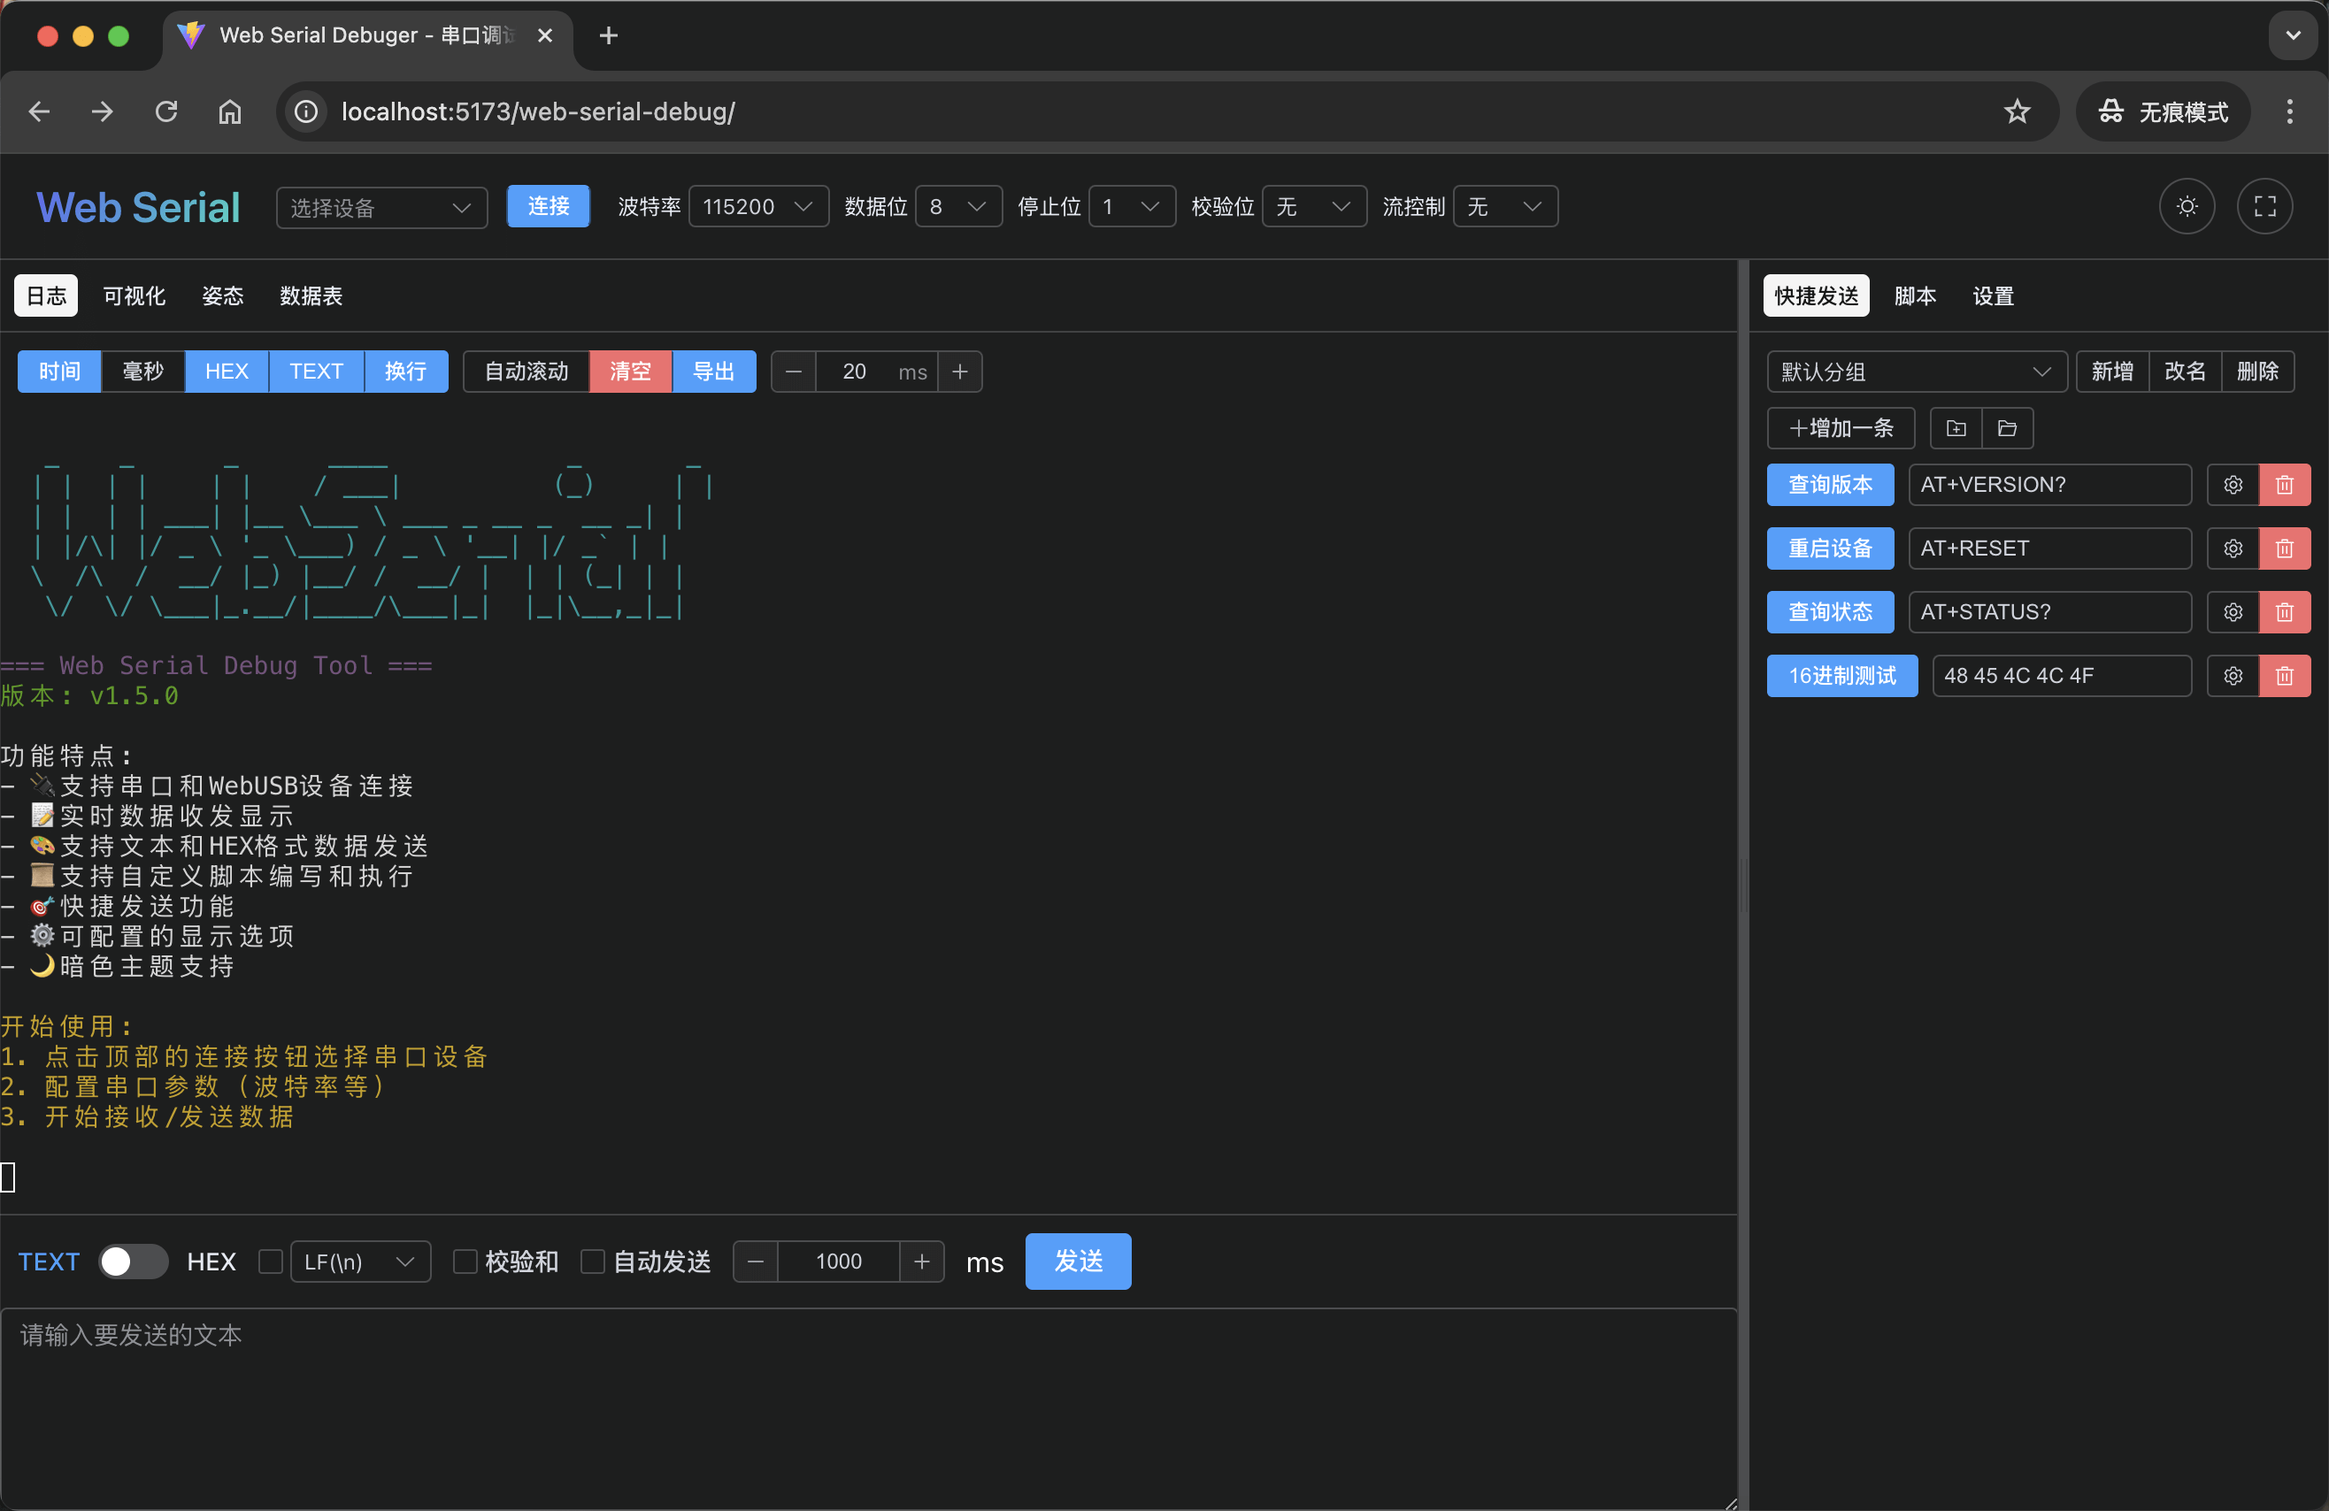
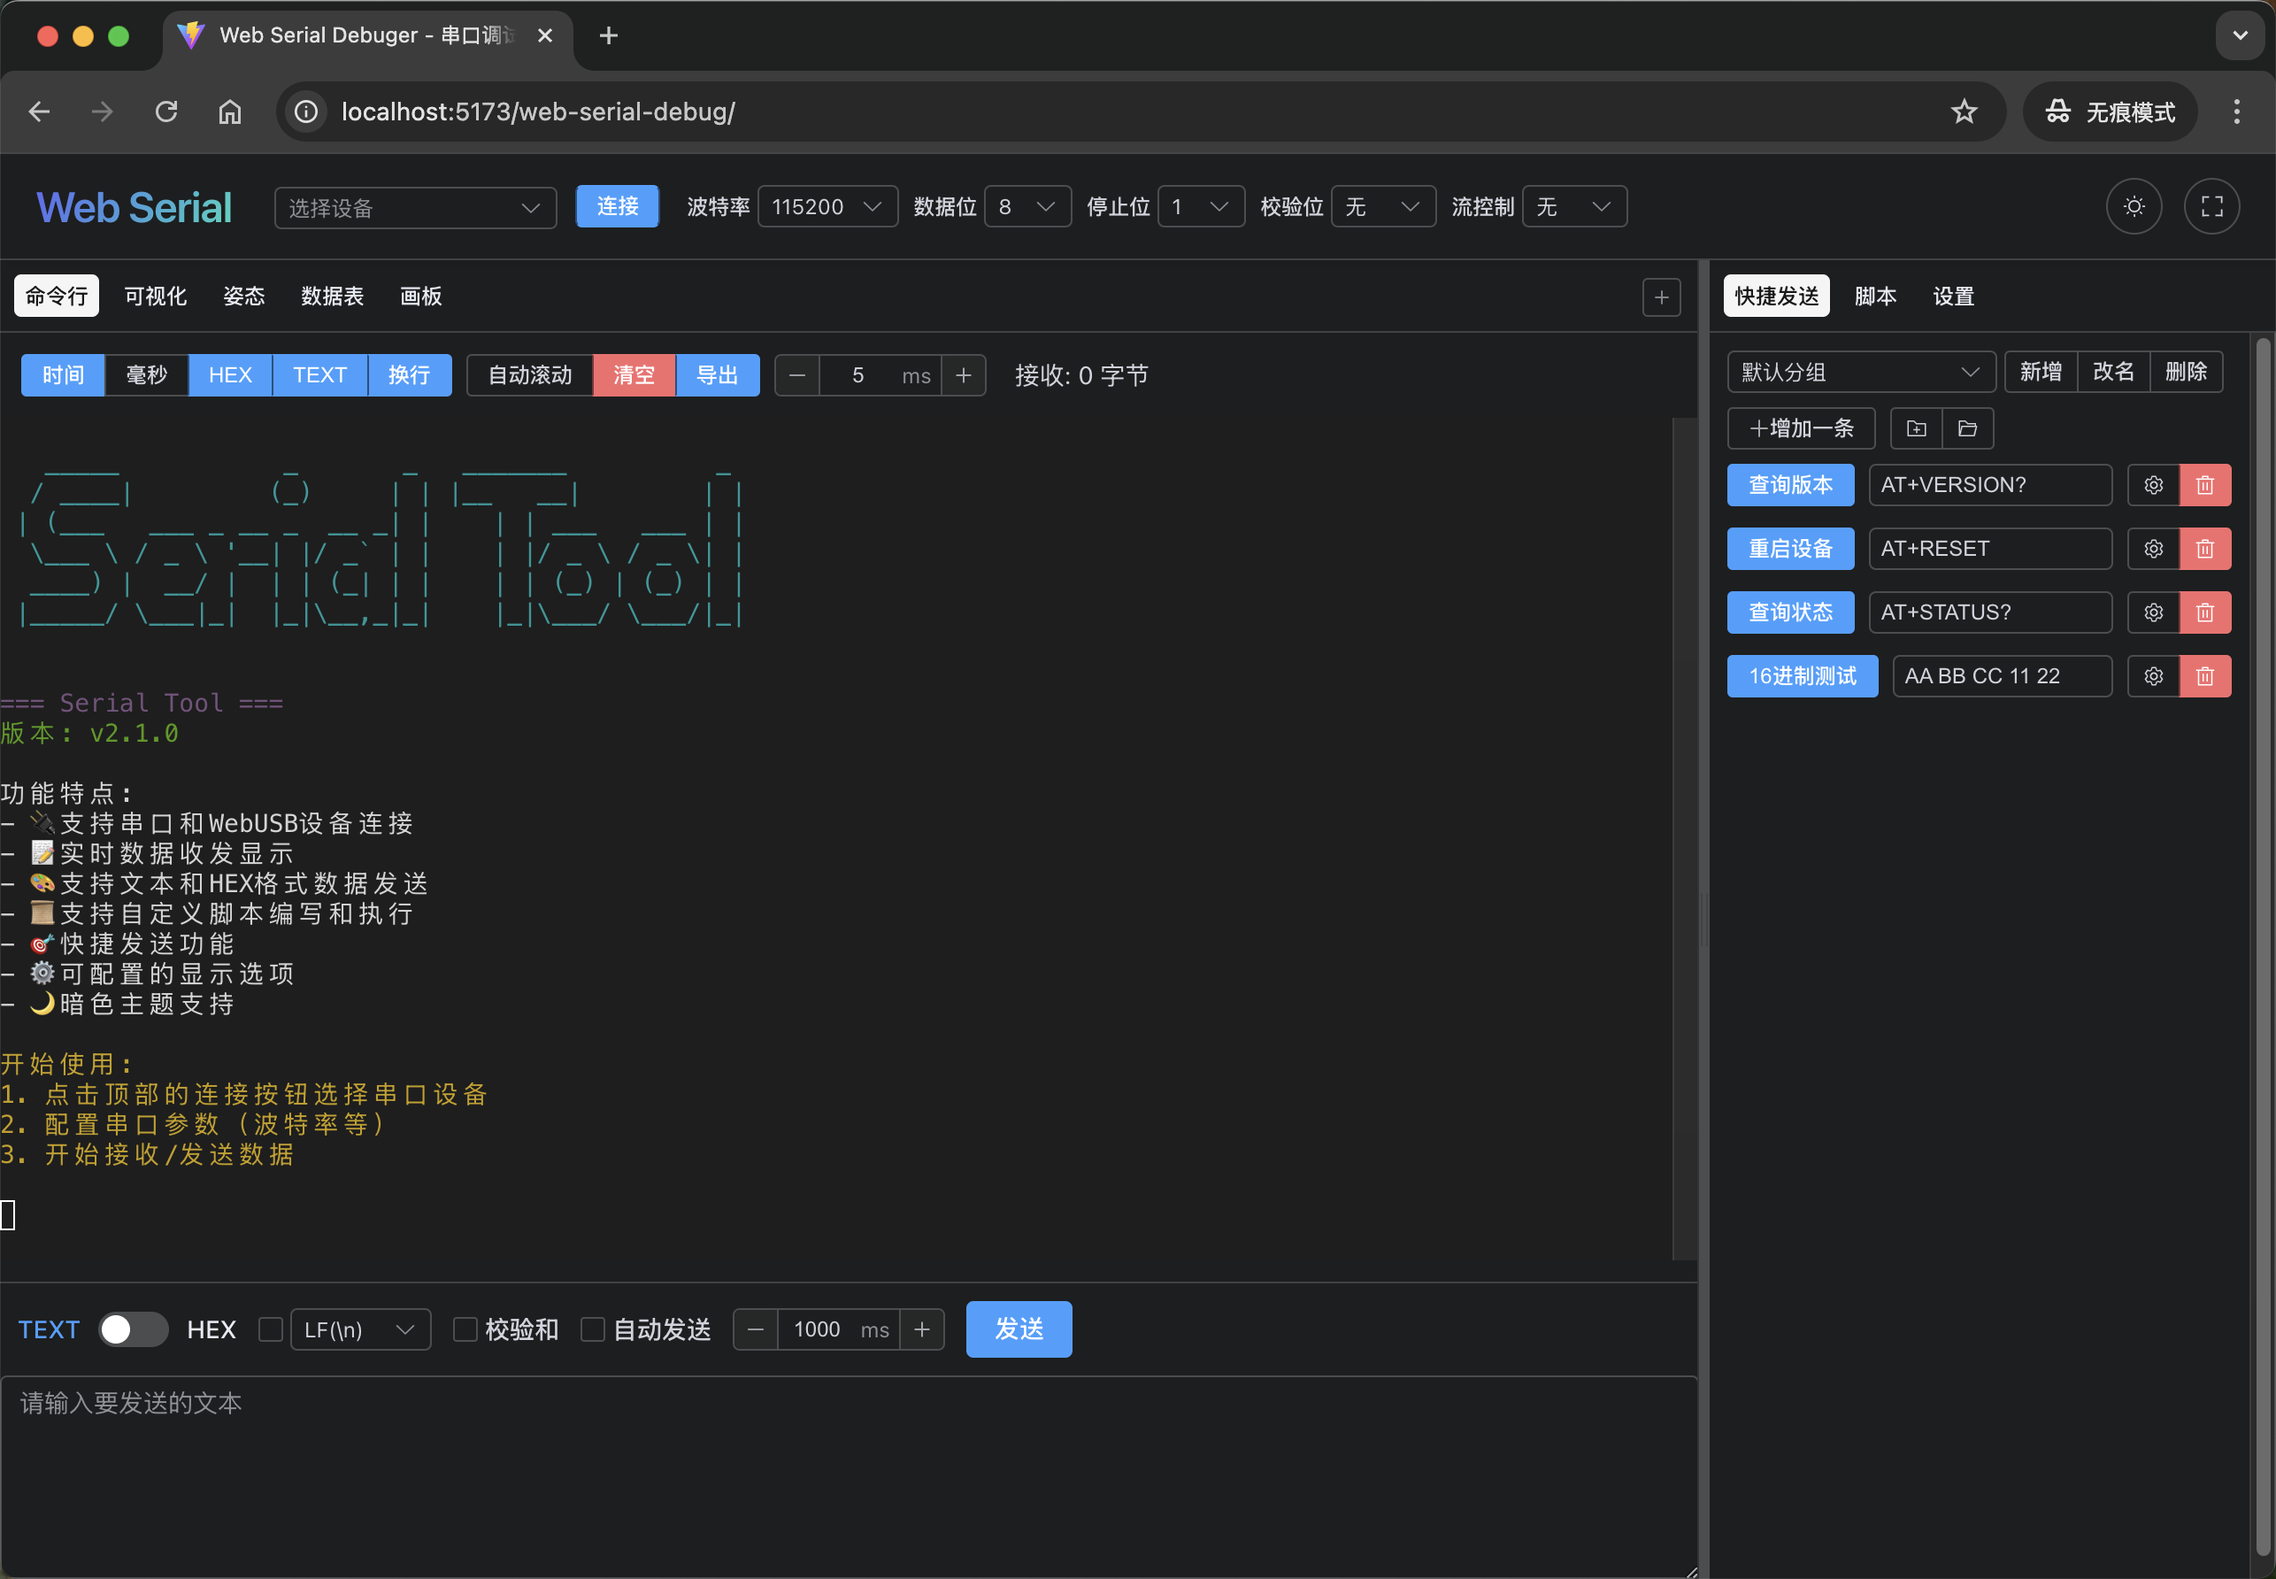
v2.1.2

diff --git a/src/components/SerialSend.vue b/src/components/SerialSend.vue
@@ -1,6 +1,7 @@
 <script setup lang="ts">
 import { SerialHelper } from '../utils/SerialHelper'
 import { ConfigManager } from '../utils/ConfigManager'
+import { ElMessage } from 'element-plus'
 
 import { EventCenter, EventNames } from '../utils/EventCenter'
 
@@ -24,7 +25,7 @@ const sendData = () => {
     if (sendConfig.value.addChecksum) {
       data = serialHelper.appendChecksum(data)
     }
-
+    // console.log('发送数据:', data, serialHelper.uint8ArrayToString(data))
     eventCenter.emit(EventNames.SERIAL_SEND, data)
     
     // 添加到历史记录
@@ -36,13 +37,24 @@ const sendData = () => {
     }
   } catch (error) {
     console.error('发送数据时出错:', error)
+    ElMessage.error('发送数据时出错' + error)
     eventCenter.emit(EventNames.SERIAL_ERROR, { message: error instanceof Error ? error.message : '发送数据时出错' })
+    return false
   }
+  return true
 }
 
 const toggleAutoSend = () => {
   if (sendConfig.value.autoSend) {
-    autoSendTimer = window.setInterval(sendData, sendConfig.value.autoSendInterval)
+    autoSendTimer = window.setInterval(() => {
+      if (!sendData()) {
+        if (autoSendTimer) {
+          clearInterval(autoSendTimer)
+          autoSendTimer = null
+        }
+        sendConfig.value.autoSend = false
+      }
+    }, sendConfig.value.autoSendInterval)
   } else if (autoSendTimer) {
     clearInterval(autoSendTimer)
     autoSendTimer = null
@@ -112,7 +124,7 @@ const handleKeyDown = (e: KeyboardEvent) => {
       <el-switch v-model="sendConfig.isHexSend" active-text="HEX" inactive-text="TEXT" class="me-2" />
       <div class="me-2" style="display: inline-block;">
         <el-checkbox v-model="sendConfig.addCRLF" label="" class="" style="vertical-align: middle;" />
-        <el-select v-model="sendConfig.addCRLFType" size="small" style="width: 80px;">
+        <el-select v-model="sendConfig.addCRLFType" size="small" style="width: 80px;" @change="sendConfig.addCRLF = true">
           <el-option :value="'\r\n'" label="CRLF(\r\n)" />
           <el-option :value="'\r'" label="CR(\r)" />
           <el-option :value="'\n'" label="LF(\n)" />
@@ -121,7 +133,7 @@ const handleKeyDown = (e: KeyboardEvent) => {
       </div>
       <el-checkbox v-model="sendConfig.addChecksum" label="校验和" class="me-2" />
       <el-checkbox v-model="sendConfig.autoSend" @change="toggleAutoSend" label="自动发送" class="me-2" />
-      <el-input-number v-model="sendConfig.autoSendInterval" :min="100" :max="10000" :step="100" @change="handleIntervalChange" size="small" class="me-2" title="自动发送时间间隔">
+      <el-input-number v-model="sendConfig.autoSendInterval" :step="100" @change="handleIntervalChange" size="small" class="me-2" title="自动发送时间间隔">
         <template #suffix>
           <span>ms</span>
         </template>
@@ -133,7 +145,7 @@ const handleKeyDown = (e: KeyboardEvent) => {
         v-model="sendConfig.content"
         type="textarea"
         :rows="5"
-        :placeholder="sendConfig.isHexSend ? '请输入HEX格式数据，如：49 54 4C 44 47' : '请输入要发送的文本'"
+        :placeholder="sendConfig.isHexSend ? '请输入HEX格式数据，如：AA BB CC 11 22' : '请输入要发送的文本'"
         @keydown="handleKeyDown"
       />
     </div>

diff --git a/src/utils/TimerManager.ts b/src/utils/TimerManager.ts
@@ -1,0 +1,90 @@
+
+export class TimerManager {
+  private static instance: TimerManager
+  private timers: Map<string, {
+    callback: () => void,
+    interval: number,
+    lastTime: number,
+    requestId: number | null,
+    isRunning: boolean
+  }>
+
+  private constructor() {
+    this.timers = new Map()
+  }
+
+  public static getInstance(): TimerManager {
+    if (!TimerManager.instance) {
+      TimerManager.instance = new TimerManager()
+    }
+    return TimerManager.instance
+  }
+
+  private animationFrame(timerId: string) {
+    const timer = this.timers.get(timerId)
+    if (!timer || !timer.isRunning) return
+
+    const currentTime = performance.now()
+    const elapsed = currentTime - timer.lastTime
+
+    if (elapsed >= timer.interval) {
+      timer.callback()
+      timer.lastTime = currentTime - (elapsed % timer.interval)
+    }
+
+    timer.requestId = requestAnimationFrame(() => this.animationFrame(timerId))
+  }
+
+  public startTimer(timerId: string, callback: () => void, interval: number) {
+    if (this.timers.has(timerId)) {
+      this.stopTimer(timerId)
+    }
+
+    this.timers.set(timerId, {
+      callback,
+      interval,
+      lastTime: performance.now(),
+      requestId: null,
+      isRunning: true
+    })
+
+    const timer = this.timers.get(timerId)!
+    timer.requestId = requestAnimationFrame(() => this.animationFrame(timerId))
+  }
+
+  public stopTimer(timerId: string) {
+    const timer = this.timers.get(timerId)
+    if (timer) {
+      timer.isRunning = false
+      if (timer.requestId !== null) {
+        cancelAnimationFrame(timer.requestId)
+        timer.requestId = null
+      }
+    }
+  }
+
+  public resumeTimer(timerId: string) {
+    const timer = this.timers.get(timerId)
+    if (timer && !timer.isRunning) {
+      timer.isRunning = true
+      timer.lastTime = performance.now()
+      timer.requestId = requestAnimationFrame(() => this.animationFrame(timerId))
+    }
+  }
+
+  public clearTimer(timerId: string) {
+    this.stopTimer(timerId)
+    this.timers.delete(timerId)
+  }
+
+  public clearAllTimers() {
+    for (const timerId of this.timers.keys()) {
+      this.clearTimer(timerId)
+    }
+  }
+
+  public isTimerRunning(timerId: string): boolean {
+    const timer = this.timers.get(timerId)
+    return timer ? timer.isRunning : false
+  }
+}

diff --git a/src/components/device/mock_imu.ts b/src/components/device/mock_imu.ts
@@ -1,5 +1,6 @@
 import { ref } from 'vue'
 import { authorizedDevices, type Device } from './device'
+import { TimerManager } from '../../utils/TimerManager'
 
 export const getDeviceTitle = () => {
     return 'mock'
@@ -20,7 +21,8 @@ export const makeDevice = (port: any) => {
 authorizedDevices.value.push(makeDevice(null))
 
 const isSimulating = ref(false)
-let simulationTimer: number | null = null
+const timerManager = TimerManager.getInstance()
+const SIMULATION_TIMER_ID = 'mock_imu_simulation'
 
 const sleep = (ms: number) => new Promise(resolve => setTimeout(resolve, ms));
 
@@ -39,12 +41,10 @@ const startSimulation = async () => {
   let reader = readable.getReader()
 
   let pitch = 0.0, roll = 0.0, yaw = 0.0
-  if (simulationTimer) {
-    clearInterval(simulationTimer)
-  }
-
-  await sleep(50 - (Date.now() % 50))
-  simulationTimer = window.setInterval(() => {
+  await sleep(1000 - (Date.now() % 1000))
+  // console.log('ts', Date.now())
+  timerManager.startTimer(SIMULATION_TIMER_ID, () => {
+    // console.log('ts2', Date.now())
     // 模拟数据
     pitch += Math.random()*0.4 - 0.2;
     roll += Math.random()*0.4 - 0.1;
@@ -60,10 +60,8 @@ const startSimulation = async () => {
 }
 
 const stopSimulation = () => {
-  if (simulationTimer) {
-    clearInterval(simulationTimer)
-    simulationTimer = null
-  }
+  timerManager.stopTimer(SIMULATION_TIMER_ID)
+  isSimulating.value = false
 }
 
 export const request = async () => {

diff --git a/src/components/SerialConfig.vue b/src/components/SerialConfig.vue
@@ -28,16 +28,16 @@ const handleConfigChange = async () => {
   if (isConnected.value) {
     try {
       await disconnectSerial()
-      DeviceSerialPort.disconnect()
+      // DeviceSerialPort.disconnect()
     }catch(error) {
 
     }
     try {
       const device = authorizedDevices.value.find(d => d.id === selectedDeviceId.value)
       if (device) {
-        await DeviceSerialPort.connectDevice(device)
+        await connectDevice(device)
       }
-      ElMessage.success('串口参数已更新')
+      // ElMessage.success('串口参数已更新')
     } catch (error) {
       ElMessage.error('更新串口参数失败：' + error)
     }
@@ -133,7 +133,8 @@ const disconnectSerial = async () => {
     console.log(error)
   }
   isConnected.value = false
-  selectedDeviceId.value = ''
+  // selectedDeviceId.value = ''
+
   try {
     await DeviceSerialPort.disconnect()
     await DeviceMockIMU.disconnect()
@@ -177,7 +178,7 @@ const handleSerialSend = async (data: Uint8Array) => {
 
   try {
     await serialWriter.value.write(data)
-    ElMessage.success({ message: '发送成功', grouping: true })
+    ElMessage.success({ message: '发送成功', grouping: true, duration: 1800, showClose: true })
   } catch (error) {
     console.log(error)
     ElMessage.error('发送数据失败：' + error)

diff --git a/src/components/SerialScript.vue b/src/components/SerialScript.vue
@@ -2,7 +2,7 @@
 import { ref, onMounted, watch } from 'vue'
 import { EditorState } from '@codemirror/state'
 import { EditorView, keymap, lineNumbers } from '@codemirror/view'
-import { defaultKeymap } from '@codemirror/commands'
+import { defaultKeymap, indentWithTab } from '@codemirror/commands'
 import { javascript } from '@codemirror/lang-javascript'
 import { oneDark, oneDarkHighlightStyle } from '@codemirror/theme-one-dark'
 import { syntaxHighlighting, defaultHighlightStyle } from '@codemirror/language'
@@ -69,6 +69,7 @@ const createEditor = () => {
       doc: currentScript.value.code,
       extensions: [
         keymap.of(defaultKeymap),
+        keymap.of([indentWithTab]),
         syntaxHighlighting(isDark.value ? oneDarkHighlightStyle : defaultHighlightStyle),
         javascript(),
         isDark.value ? oneDark : [],
@@ -166,6 +167,7 @@ watch(scripts, () => {
 <style scoped>
 .serial-script {
   margin: 10px;
+  min-width: 300px;
 }
 
 .script-select {

diff --git a/src/utils/ScriptManager.ts b/src/utils/ScriptManager.ts
@@ -107,11 +107,11 @@ export class ScriptManager {
     this.currentScript = script
   }
 
-  public addScript(): ScriptItem {
+  public addScript(title: string = '新脚本', code: string = demo1): ScriptItem {
     const newScript: ScriptItem = {
       id: Date.now(),
-      name: '新建脚本',
-      code: demo1,
+      name: title,
+      code: code,
       isRunning: false
     }
     this.scripts.push(newScript)
@@ -231,7 +231,7 @@ return (async function() {
       }
     }
     if (this.scripts.length === 0) {
-      this.addScript()
+      this.addScript('数据处理Demo（key:val,key:val）', demo1)
     }
     this.scripts.map((script) => {
       script.isRunning = false

diff --git a/src/store/quickSendStore.ts b/src/store/quickSendStore.ts
@@ -70,7 +70,7 @@ export const useQuickSendStore = defineStore('quickSend', () => {
       name: '新建项目',
       content: '',
       type: 'text',
-      addCRLFType: ''
+      addCRLFType: '\\n'
     })
   }
 
@@ -195,7 +195,7 @@ export const useQuickSendStore = defineStore('quickSend', () => {
           {
               id: 4,
               name: '16进制测试',
-              content: '48 45 4C 4C 4F',
+              content: 'AA BB CC 11 22',
               type: 'hex',
               addCRLFType: ''
           }

diff --git a/src/App.vue b/src/App.vue
@@ -92,7 +92,7 @@ handleResize()
             <el-tab-pane label="姿态" lazy>
               <Chart3D />
             </el-tab-pane>
-            <el-tab-pane label="数据表">
+            <el-tab-pane label="数据表" lazy>
               <DataTable />
             </el-tab-pane>
             <el-tab-pane label="画板" lazy>
@@ -232,7 +232,6 @@ handleResize()
 }
 .lv-card :deep(.el-tab-pane) {
   height: 100%;
-  overflow: auto;
 }
 
 :deep(.splitpanes__splitter) {

diff --git a/src/components/SerialQuickSend.vue b/src/components/SerialQuickSend.vue
@@ -169,6 +169,7 @@ const handleRenameGroup = () => {
 <style scoped>
 .quick-send {
   margin: 10px 10px;
+  min-width: 200px;
 }
 
 .quick-send-actions {
@@ -228,6 +229,7 @@ const handleRenameGroup = () => {
 .item-row {
   display: flex;
   align-items: center;
+  white-space: nowrap;
   gap: 8px;
 }
 

diff --git a/src/components/CanvasPanel.vue b/src/components/CanvasPanel.vue
@@ -99,6 +99,8 @@ const saveLayout = () => {
         :key="item.id"
         :x="item.x"
         :y="item.y"
+        :w="item.width"
+        :h="item.height"
         :width="item.width"
         :height="item.height"
         :draggable="true"

diff --git a/public/sw.js b/public/sw.js
@@ -1,5 +1,5 @@
 
-const CACHE_NAME = 'web-serial-debug-cache-v1';
+const CACHE_NAME = 'web-serial-debug-cache-v2';
 const urlsToCache = [
   './',
   './index.html',

diff --git a/README.md b/README.md
@@ -1,6 +1,6 @@
 # [Web Serial Debugger](https://qdsang.github.io/web-serial-debug/)
 
-一个基于 Web Serial 的串口调试工具。 [https://qdsang.github.io/web-serial-debug/](https://qdsang.github.io/web-serial-debug/)
+基于 Web 的串口调试工具。 [https://qdsang.github.io/web-serial-debug/](https://qdsang.github.io/web-serial-debug/)
 
 ## Demo
 
